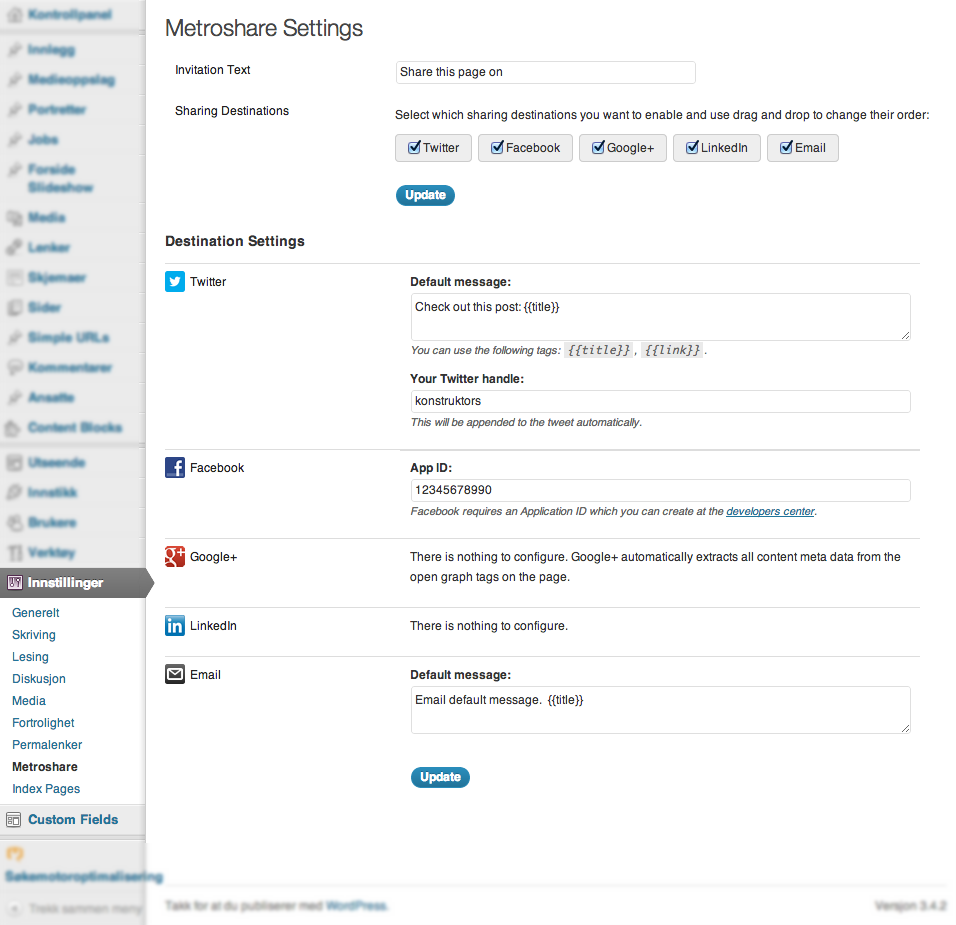
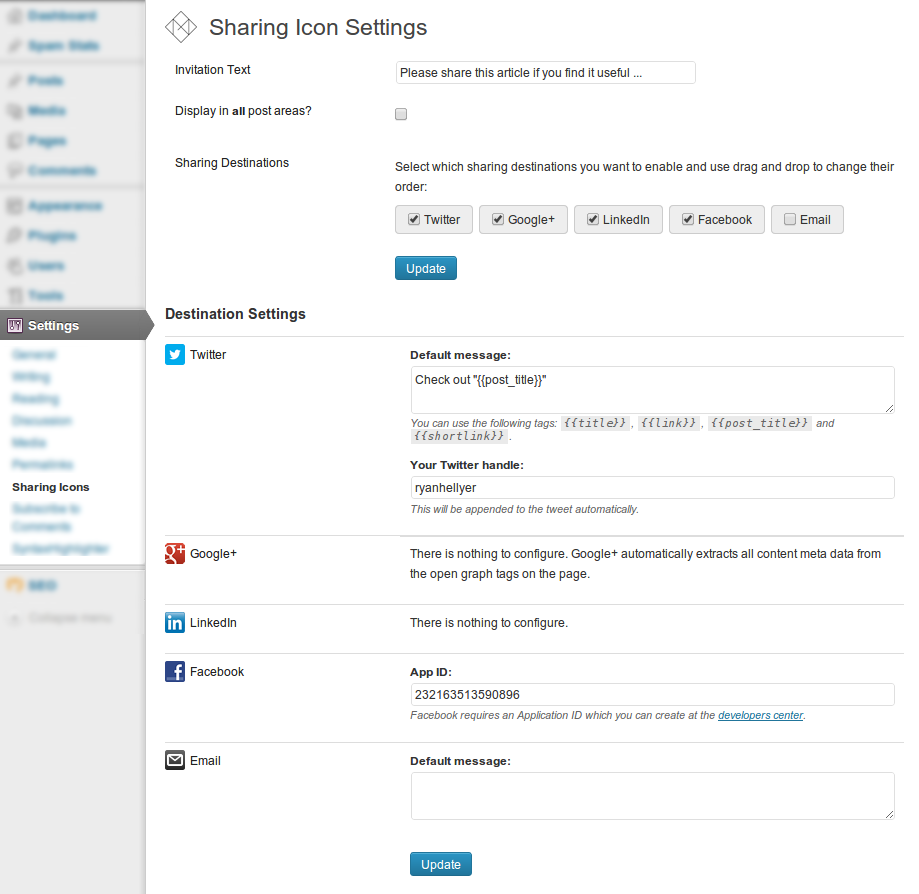
Final touches ready for public release

diff --git a/assets/metroshare.css b/assets/metroshare.css
@@ -13,6 +13,7 @@
 	padding: 0 !important;
 }
 .metro-tabs li {
+	list-style: none;
 	float: left;
 	width: 16px;
 	height: 16px;

diff --git a/metro-share.php b/metro-share.php
@@ -31,6 +31,35 @@ class Metro_Share {
 	 * @author Ryan Hellyer <ryan@metronet.no>
 	 */
 	public function __construct() {
+		//delete_option( 'metroshare_settings' );
+		$settings = array(
+			'allposts' => 0,
+			'prefix'   => '',
+			'destinations' => array(
+				'twitter' => array(
+					'enabled'  => 'twitter',
+					'message'  => '',
+					'username' => '',
+				),
+				'facebook' => array(
+					'app_id'  => '',
+				),
+				'email' => array(
+					'enabled' => 'email',
+					'message' => ''
+				),
+				'google-plus' => array(
+					'enabled' => 'google-plus',
+				),
+				'linkedin' => array(
+					'enabled' => 'linkedin',
+				),
+			),
+		);
+		add_option( 'metroshare_settings', $settings );
+
+		// Grab settings
+		$this->settings = get_option( 'metroshare_settings' );
 
 		// Admin
 		add_action( 'init',                  array( $this, 'load_settings' ) );
@@ -98,7 +127,7 @@ class Metro_Share {
 			'metroshare_settings',
 			array( $this, 'validate' )
 		);
-		add_submenu_page( 'options-general.php', 'Metroshare Settings', 'Metroshare', 'administrator', __FILE__, array( $this, 'metroshare_settings_display' ) );
+		add_submenu_page( 'options-general.php', __( 'Sharing Icon Settings', 'metroshare' ), __( 'Sharing Icons', 'metroshare' ), 'administrator', __FILE__, array( $this, 'settings_display' ) );
 	}
 	
 	/*
@@ -116,9 +145,11 @@ class Metro_Share {
 		if ( isset( $input['username'] ) )
 			$output['username'] = sanitize_user( $input['username'] );
 		if ( isset( $input['app_id'] ) ) {
-			$output['app_id'] = abs( $input['app_id'] );
-			if ( 0 == $output['app_id'] )
-				$output['app_id']  = '';
+			if ( is_numeric( $input['app_id'] ) ) {
+				$output['app_id'] = $input['app_id'];
+			} else {
+				$output['app_id'] = '';
+			}
 		}
 		return $output;
 	}
@@ -136,6 +167,8 @@ class Metro_Share {
 			$output['prefix'] = wp_kses( $input['prefix'], '', '' );
 		if ( isset( $input['allposts'] ) )
 			$output['allposts'] = (bool) $input['allposts'];
+		else
+			$output['allposts'] = false;
 		$destinations = $input['destinations'];
 
 		foreach( $destinations as $destination => $value ) {
@@ -152,8 +185,6 @@ class Metro_Share {
 	 * @author Kaspars Dambis <kaspars@metronet.no>
 	 */
 	public function load_settings() {
-		// Load user settings
-		$this->settings = get_option( 'metroshare_settings' );
 
 		$this->destinations['twitter'] = array(
 				'title' => 'Twitter',
@@ -162,7 +193,7 @@ class Metro_Share {
 					'message' => array( 
 						'type' => 'textarea',
 						'label' => __( 'Default message:', 'metroshare' ),
-						'help' => __( 'You can use the following tags: <code>{{title}}</code>, <code>{{link}}</code>.', 'metroshare' )
+						'help' => __( 'You can use the following tags: <code>{{title}}</code>, <code>{{link}}</code>, <code>{{post_title}}</code> and <code>{{shortlink}}</code>.', 'metroshare' )
 					),
 					'username' => array( 
 						'type' => 'text',
@@ -247,15 +278,13 @@ class Metro_Share {
 	 *
 	 * @since 0.5
 	 * @author Ryan Hellyer <ryan@metronet.no>
-	 * @param string $content The post content
-	 * @global int   $post    The primary post object
+	 * @param string   $content  The post content
+	 * @global object  $post     The primary post object
 	 * @return string
 	 */
 	public function show_the_content( $content = '' ) {
 		global $post;
 
-		// If not the current post, then move along ...
-		$this->settings = get_option( 'metroshare_settings' );
 		if ( is_singular() && $post->ID == get_queried_object_id() || $this->settings['allposts'] == true ) {
 			$icons = $this->get_sharing_icons();
 			$content .= $icons;
@@ -291,17 +320,17 @@ class Metro_Share {
 
 			if ( is_404() ) {
 				$replace = array(
-					'{{title}}'      => get_the_title(),
-					'{{post_title}}' => get_the_title(),
-					'{{link}}'       => get_permalink(),
-					'{{shortlink}}'  => wp_get_shortlink(),
-				);
-			} else {
-				$replace = array(
 					'{{title}}'      => get_bloginfo( 'name' ),
 					'{{post_title}}' => get_bloginfo( 'description' ),
 					'{{link}}'       => home_url(),
 					'{{shortlink}}'  => home_url(),
+				);
+			} else {
+				$replace = array(
+					'{{title}}'      => get_the_title(),
+					'{{post_title}}' => get_the_title(),
+					'{{link}}'       => get_permalink(),
+					'{{shortlink}}'  => wp_get_shortlink(),
 				);
 			}
 			$replace = apply_filters( 'metroshare_tag', $replace );
@@ -366,11 +395,14 @@ class Metro_Share {
 	 * @since 0.4
 	 * @author Kaspars Dambis <kaspars@metronet.no>
 	 */
-	public function metroshare_settings_display() {
+	public function settings_display() {
 		$network_settings = array();
 		$enabled_settings = array(); 
 
 		foreach ( $this->destinations as $n => $network ) {
+			if ( ! isset( $this->settings['destinations'][ $n ]['enabled'] ) ) {
+				$this->settings['destinations'][ $n ]['enabled'] = false;
+			}
 			$enabled_settings[ $n ] = sprintf( 
 					'<li>
 						<label>
@@ -398,16 +430,24 @@ class Metro_Share {
 
 		echo '<form action="options.php" method="post">';
 		settings_fields( 'metroshare_settings' );
+		echo '
+		<style type="text/css">
+		#icon-metronet {
+			background:url(' . plugins_url( '/assets/metronet-icon.png', __FILE__ ) . ') no-repeat;
+		}
+		</style>
+		<div class="wrap metroshare-wrap">';
+		screen_icon( 'metronet' );
 
 		printf( 
-				'<div class="wrap metroshare-wrap">
+				'
 					<h2>%s</h2>
 					
 					<table class="form-table metroshare-global">
 						<tr class="metroshare-prefix">
 							<th>%s</th>
 							<td>
-								<input class="regular-text" type="text" name="metroshare_settings[allposts]" value="%s" />
+								<input class="regular-text" type="text" name="metroshare_settings[prefix]" value="%s" />
 							</td>
 						</tr>
 						<tr class="submit">
@@ -444,7 +484,7 @@ class Metro_Share {
 						</tr>
 					</table>
 				</div>',
-				__( 'Metroshare Settings', 'metroshare' ),
+				__( 'Sharing Icon Settings', 'metroshare' ),
 				__( 'Invitation Text', 'metroshare' ),
 				esc_attr( $this->settings['prefix'] ),
 				'Display in <strong>all</strong> post areas?',
